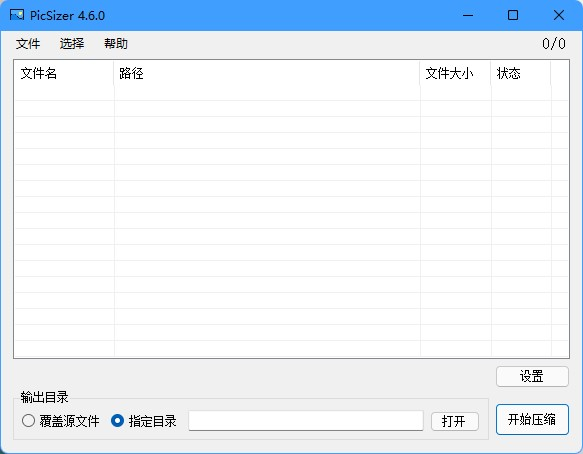
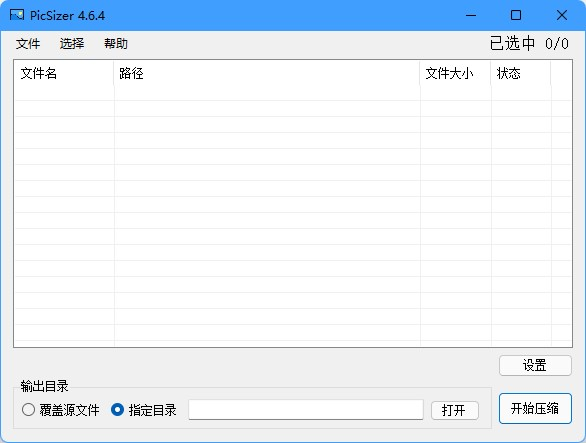
修复GDI+异常bug

diff --git a/PicSizer/Class/PictureProc/Compress.cs b/PicSizer/Class/PictureProc/Compress.cs
@@ -15,8 +15,11 @@ namespace PicSizer.Class.PictureProc
         /// <summary>
         /// 调整图片像素，如果输入了width和height，则无视设置，强制缩放到给定的尺寸
         /// </summary>
-        private static Bitmap ResizeBitmap(Bitmap bitmap)
+        private static Bitmap ResizeBitmap(Bitmap oldBitmap)
         {
+            //摧毁原本图片,以免占用源文件
+            Bitmap bitmap = new Bitmap(oldBitmap);
+            oldBitmap.Dispose();
             //图片位深度是24位且关闭了尺寸修正
             if (Value.setting.resizeMode == ResizeMode.None && bitmap.PixelFormat == PixelFormat.Format24bppRgb)
             {

diff --git a/README.md b/README.md
@@ -1,4 +1,4 @@
-## 项目介绍(v4.6.0)
+## 项目介绍(v4.6.4)
 
 PicSizer是一款图片批量压缩软件，解决了传统压缩软件只能指定压缩比，而不能指定压缩后的大小的问题。
 
